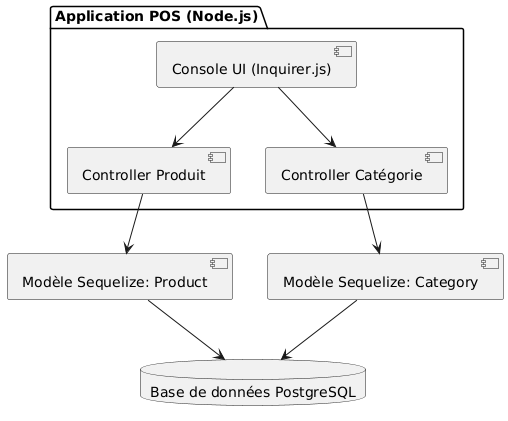
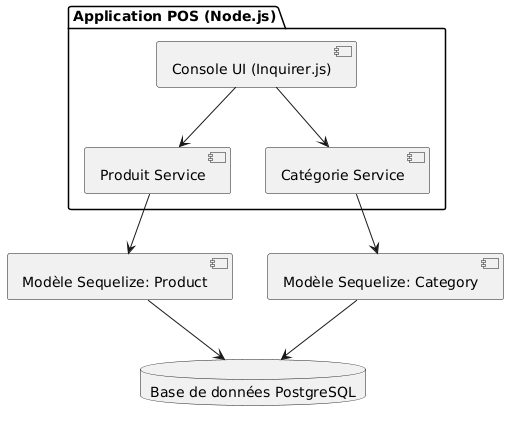
Fix Rename Controller to Service

diff --git a/app/src/services/ProductService.js b/app/src/services/ProductService.js
@@ -1,9 +1,9 @@
 import Product from '../models/Product.js';
 import sequelize from '../database.js';
 import Category from '../models/Category.js';
-import CategoryController from './CategoryController.js';
+import CategoryService from './CategoryService.js';
 
-const ProductController = {
+const ProductService = {
     async createProduct(name, price, stockQuantity, categoryName) {
         let categoryId = null;
         const t = await sequelize.transaction()
@@ -18,7 +18,7 @@ const ProductController = {
             if (category) {
                 categoryId = category.id;
             } else {
-                const newCategory = await CategoryController.createCategory(categoryName);
+                const newCategory = await CategoryService.createCategory(categoryName);
                 categoryId = newCategory.id;
             }
 
@@ -47,7 +47,7 @@ const ProductController = {
             });
 
             if (product) {
-                console.log(`Produit trouvé : ID: ${product.id}, Nom: ${product.name}, Prix: ${product.price}, Quantité: ${product.stockQuantity}, Catégorie: ${product.category.name}`);
+                this.displayProduct(product);
             } else {
                 console.log('Product not found');
             }
@@ -66,7 +66,7 @@ const ProductController = {
             });
 
             if (product) {
-                console.log(`Produit trouvé : ID: ${product.id}, Nom: ${product.name}, Prix: ${product.price}, Quantité: ${product.stockQuantity}, Catégorie: ${product.category.name}`);
+                this.displayProduct(product);
             } else {
                 console.log('Product not found');
             }
@@ -93,7 +93,7 @@ const ProductController = {
 
                 if (products.length > 0) {
                     products.forEach(product => {
-                        console.log(`Produit trouvé : ID: ${product.id}, Nom: ${product.name}, Prix: ${product.price}, Quantité: ${product.stockQuantity}, Catégorie: ${product?.category ? product.category.name : 'Aucune'}`);
+                        this.displayProduct(product);
                     });
                 } else {
                     console.log('No products found in this category');
@@ -118,7 +118,7 @@ const ProductController = {
 
             if (products.length > 0) {
                 products.forEach(product => {
-                    console.log(`ID: ${product.id}, Nom: ${product.name}, Prix: ${product.price}, Quantité: ${product.stockQuantity}, Catégorie: ${product.category.name}`);
+                    this.displayProduct(product);
                 });
                 return products;
             } else {
@@ -149,7 +149,11 @@ const ProductController = {
             console.error('Error returning product:', error);
             throw error;
         }
+    },
+
+    displayProduct(product) {
+        console.log(`ID: ${product.id}, Nom: ${product.name}, Prix: ${product.price}, Quantité: ${product.stockQuantity}, Catégorie: ${product?.category ? product.category.name : 'Aucune'}`);
     }
 };
 
-export default ProductController;
+export default ProductService;

diff --git a/app/test/ProductService.test.js b/app/test/ProductService.test.js
@@ -1,10 +1,10 @@
-import ProductController from "../src/controllers/ProductController";
-import Product from "../src/models/Product";
-import sequelize from "../src/database";
+import ProductService from "../src/services/ProductService.js";
+import Product from "../src/models/Product.js";
+import sequelize from "../src/database.js";
 import { expect, jest } from "@jest/globals";
-import Category from "../src/models/Category";
+import Category from "../src/models/Category.js";
 
-describe("ProductController", () => {
+describe("ProductService", () => {
     let consoleSpy;
 
     beforeEach(() => {
@@ -31,7 +31,7 @@ describe("ProductController", () => {
         const mockFindOne = jest.fn().mockResolvedValue(mockProduct);
         Product.findOne = mockFindOne;
 
-        await ProductController.searchProductByName("Laptop");
+        await ProductService.searchProductByName("Laptop");
 
         expect(mockFindOne).toHaveBeenCalledWith({
             where: { name: "Laptop" },
@@ -50,7 +50,7 @@ describe("ProductController", () => {
         const mockFindOne = jest.fn().mockResolvedValue(mockProduct);
         Product.findOne = mockFindOne;
 
-        await ProductController.searchProductById(1);
+        await ProductService.searchProductById(1);
 
         expect(mockFindOne).toHaveBeenCalledWith({
             where: { id: 1 },
@@ -79,7 +79,7 @@ describe("ProductController", () => {
             category: { name: "Electronics" },
         }]);
         Product.findAll = mockFindOne;
-        await ProductController.searchProductByCategory("Electronics");
+        await ProductService.searchProductByCategory("Electronics");
         expect(mockFindOneCategory).toHaveBeenCalledWith({
             where: { name: "Electronics" },
         });
@@ -106,7 +106,7 @@ describe("ProductController", () => {
         });
         Product.create = mockCreate;
 
-        await ProductController.createProduct("Iphone", 999, 20, "Electronics");
+        await ProductService.createProduct("Iphone", 999, 20, "Electronics");
 
         expect(mockFindOneCategory).toHaveBeenCalledWith({
             where: { name: "Electronics" },
@@ -140,7 +140,7 @@ describe("ProductController", () => {
         const mockFindAll = jest.fn().mockResolvedValue(mockProducts);
         Product.findAll = mockFindAll;
 
-        await ProductController.getAllProducts();
+        await ProductService.getAllProducts();
 
         expect(mockFindAll).toHaveBeenCalled();
         expect(consoleSpy).toHaveBeenCalledWith("ID: 1, Nom: Iphone, Prix: 999, Quantité: 20, Catégorie: Electronics");
@@ -159,7 +159,7 @@ describe("ProductController", () => {
         const mockFindOne = jest.fn().mockResolvedValue(mockProduct);
         Product.findOne = mockFindOne;
 
-        await ProductController.returnProduct(1, 5);
+        await ProductService.returnProduct(1, 5);
 
         expect(mockFindOne).toHaveBeenCalledWith({
             where: { id: 1 },

diff --git a/app/src/index.js b/app/src/index.js
@@ -1,7 +1,6 @@
 import sequelize from './database.js';
-import CategoryController from './controllers/CategoryController.js';
 import inquirer from 'inquirer';
-import ProductController from './controllers/ProductController.js';
+import ProductService from './services/ProductService.js';
 
 
 (async () => {
@@ -45,7 +44,7 @@ async function menu() {
             message: 'Nom du produit :'
           });
           try {
-            await ProductController.searchProductByName(name);
+            await ProductService.searchProductByName(name);
           } catch (error) {
             console.error('Erreur lors de la recherche du produit :', error);
           }
@@ -57,7 +56,7 @@ async function menu() {
             message: 'Id du produit :'
           });
           try {
-            await ProductController.searchProductById(id);
+            await ProductService.searchProductById(id);
           } catch (error) {
             console.error('Erreur lors de la recherche du produit :', error);
           }
@@ -69,7 +68,7 @@ async function menu() {
             message: 'Nom de la catégorie :'
           });
           try {
-            await ProductController.searchProductByCategory(category);
+            await ProductService.searchProductByCategory(category);
           } catch (error) {
             console.error('Erreur lors de la recherche du produit :', error);
           }
@@ -102,7 +101,7 @@ async function menu() {
 
       try {
         await
-          ProductController.createProduct(name, price, stockQuantity, categoryName);;
+          ProductService.createProduct(name, price, stockQuantity, categoryName);;
       } catch (error) {
         console.error('Erreur lors de l\'ajout du produit :', error);
       }
@@ -121,7 +120,7 @@ async function menu() {
         }
       ]);
       try {
-        await ProductController.returnProduct(productId, quantity);
+        await ProductService.returnProduct(productId, quantity);
       }
       catch (error) {
         console.error('Erreur lors du retour du produit :', error);
@@ -129,7 +128,7 @@ async function menu() {
       break;
     case 'Consulter les produits':
       try {
-        await ProductController.getAllProducts();
+        await ProductService.getAllProducts();
       } catch (error) {
         console.error('Erreur lors de la recherche des produits :', error);
       }

diff --git a/app/test/CategoryService.test.js b/app/test/CategoryService.test.js
@@ -1,9 +1,9 @@
-import CategoryController from '../src/controllers/CategoryController.js';
+import CategoryService from '../src/services/CategoryService.js'
 import Category from '../src/models/Category.js';
 import { jest } from '@jest/globals';
 import sequelize from '../src/database.js';
 
-describe('CategoryController', () => {
+describe('CategoryService', () => {
     let consoleSpy;
 
     beforeEach(() => {
@@ -24,7 +24,7 @@ describe('CategoryController', () => {
         const mockCreate = jest.fn().mockResolvedValue(mockCategory);
         Category.create = mockCreate;
 
-        const result = await CategoryController.createCategory('Electronics');
+        const result = await CategoryService.createCategory('Electronics');
 
         expect(mockCreate).toHaveBeenCalledWith({ name: 'Electronics' }, { transaction: expect.any(Object) });
         expect(result).toEqual(mockCategory);

diff --git a/app/src/services/CategoryService.js b/app/src/services/CategoryService.js
@@ -1,7 +1,7 @@
 import Category from '../models/Category.js';
 import sequelize from '../database.js';
 
-const CategoryController = {
+const CategoryService = {
     async createCategory(categoryName) {
         const t = await sequelize.transaction();
 
@@ -21,4 +21,4 @@ const CategoryController = {
     }
 };
 
-export default CategoryController;
+export default CategoryService;

diff --git a/README.md b/README.md
@@ -193,21 +193,22 @@ Prérequis:
     cd app
     ```
 
-    - Construire le conteneur
+    - Construire le container
     
     ```
     docker-compose build
     ```
 
-    - Lancer le conteneur
+    - Lancer le container
 
     ```
     docker-compose up
     ```
 
-    -- Ouvrir un nouveau terminal et exécuter la commande
+    -- Ouvrir un nouveau terminal et exécuter les commandes
 
     ```
+    cd app
     docker compose run --rm app
     ```
 
@@ -223,17 +224,17 @@ Prérequis:
 │   ├── package-lock.json
 │   ├── package.json
 │   ├── src
-│   │   ├── controllers
-│   │   │   ├── CategoryController.js
-│   │   │   └── ProductController.js
+│   │   ├── services
+│   │   │   ├── CategoryService.js
+│   │   │   └── ProductService.js
 │   │   ├── database.js
 │   │   ├── index.js
 │   │   └── models
 │   │       ├── Category.js
 │   │       └── Product.js
 │   └── test
-│       ├── CategoryController.test.js
-│       ├── ProductController.test.js
+│       ├── CategoryService.test.js
+│       ├── ProductService.test.js
 │       └── script.test.js
 ├── docs
 │   ├── ADR
